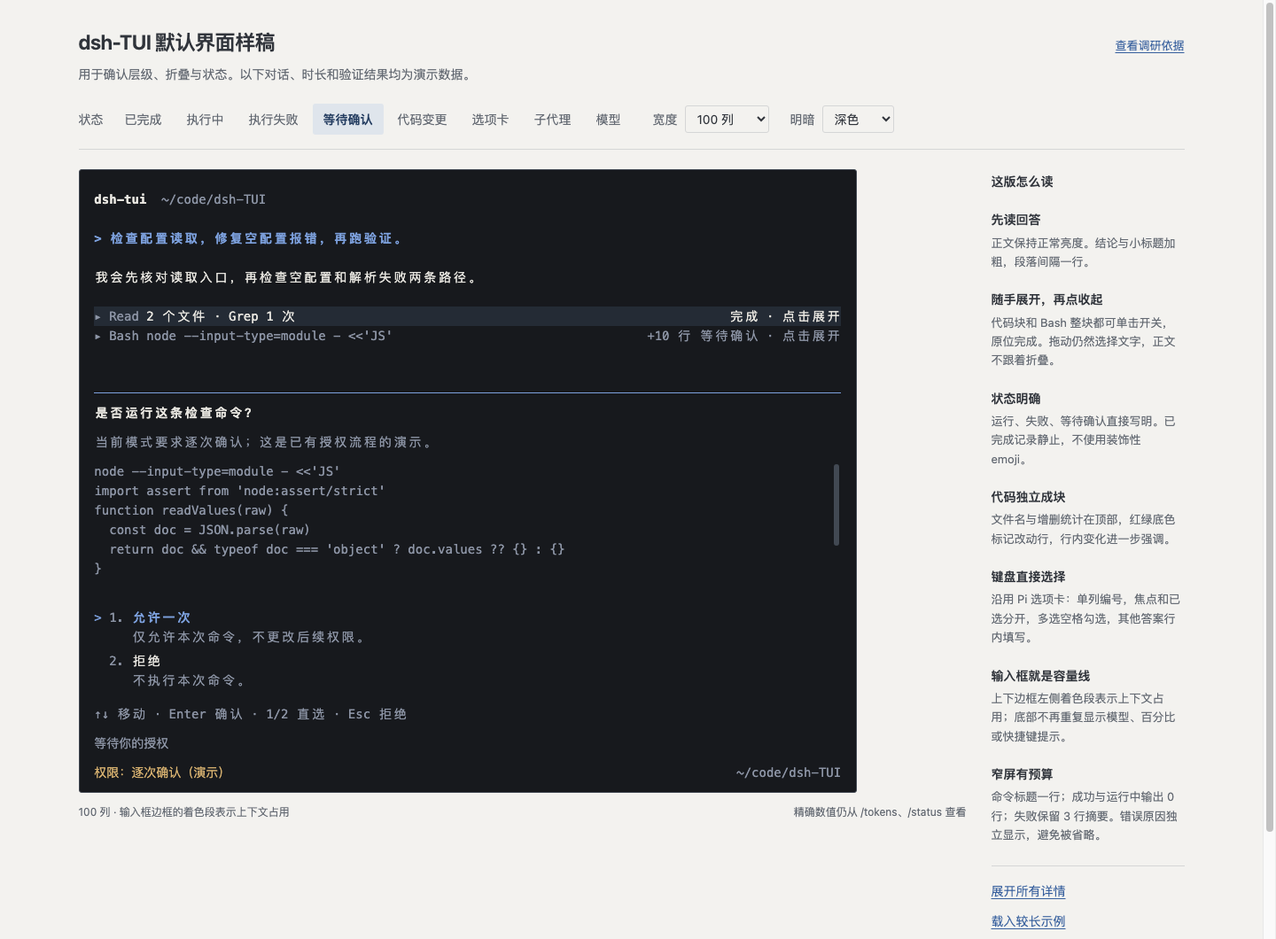
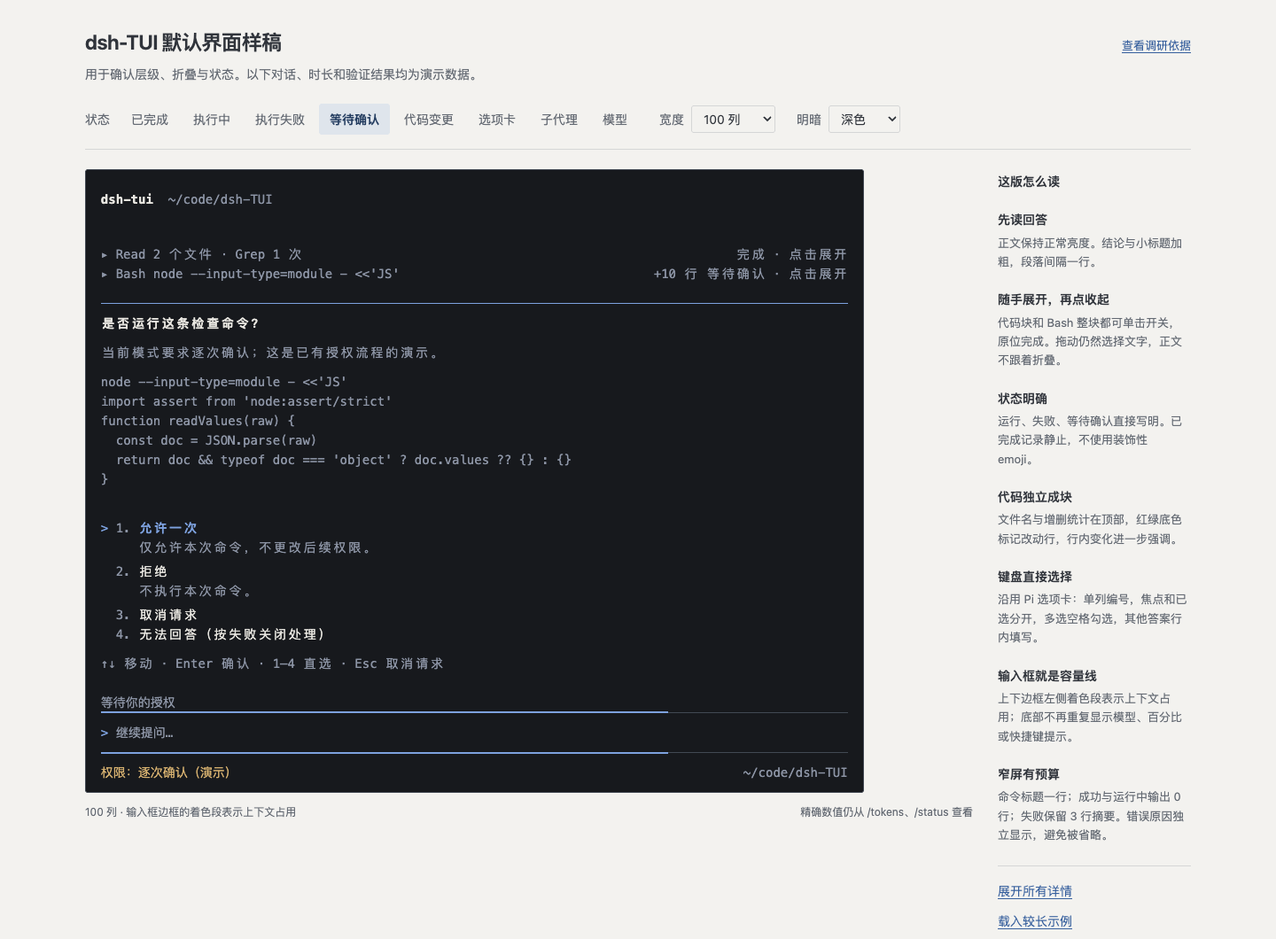
docs(spec): 审批卡进正文流 spec 与设计稿
Claude Code 2.1.88 同款落点：审批卡并入正文滚动序列，输入块保留；
新增命令区块（callId → ToolEntry.args）与删除 Overlay 原语的机制清单。

diff --git a/docs/design/2026-10-17-dsh-tui-ux-research/preview/choices.js b/docs/design/2026-10-17-dsh-tui-ux-research/preview/choices.js
@@ -32,7 +32,7 @@
         }
       })
     }
-    hide() { this.key=null;this.pending=false;this.host.hidden=true;this.host.innerHTML='' }
+    hide() { this.key=null;this.pending=false;if(this.mount){this.mount.remove();this.mount=null}this.host.hidden=true;this.host.innerHTML='' }
     showQuestions(mode,key) {
       if(this.key===key) {this.paint();return}
       this.key=key;this.kind='question';this.mode=mode;this.index=0;this.error='';this.result=null
@@ -45,7 +45,37 @@
       this.key=key;this.kind='approval';this.command=command;this.approvalFocus=0;this.error='';this.result=null;this.pending=true
       this.paint();this.focusPanel()
     }
-    focusPanel() { this.host.querySelector('.choice-panel')?.focus({preventScroll:true}) }
+    /** Approval card now lives in the transcript flow; the host renders it there. */
+    mountApproval(container) {
+      if(this.mount?.isConnected) return
+      const section=document.createElement('section')
+      section.className='choice-panel transcript-approval'
+      section.tabIndex=0
+      section.setAttribute('aria-label','命令授权选项卡')
+      section.addEventListener('click',event=>this.click(event))
+      container.appendChild(section)
+      this.mount=section
+    }
+    approvalBody() {
+      const rows=[
+        ['允许一次','仅允许本次命令，不更改后续权限。','allow'],
+        ['拒绝','不执行本次命令。','deny'],
+        ['取消请求','','cancel'],
+        ['无法回答（按失败关闭处理）','','unavailable'],
+      ]
+      return `<div class="choice-title">${this.cells('是否运行这条检查命令？')}</div>
+        <div class="choice-context muted">${this.cells('当前模式要求逐次确认；这是已有授权流程的演示。')}</div>
+        <pre class="approval-command" tabindex="0" aria-label="完整命令，可滚动查看">${this.cells(this.command)}</pre>
+        <div class="choice-options" role="listbox" aria-label="授权选项">
+          ${rows.map(([label,description,decision],index)=>this.optionRow(index,label,description,{focused:this.approvalFocus===index,decision})).join('')}
+        </div>
+        <div class="choice-footer">${this.cells('↑↓ 移动 · Enter 确认 · 1–4 直选 · Esc 取消请求')}</div>`
+    }
+    focusPanel() {
+      const root=this.mount?.isConnected?this.mount:this.host
+      const panel=root.classList?.contains('choice-panel')?root:root.querySelector('.choice-panel')
+      panel?.focus({preventScroll:true})
+    }
     question() { return this.questions[this.index] }
     current() { return this.states[this.index] }
     valid(item) { return item.selected.length>0 || Boolean(item.other.trim()) }
@@ -105,7 +135,7 @@
       if(!this.pending)return false
       const typing=event.target.matches('[data-other-input]')
       if(event.key==='Escape') {
-        event.preventDefault();this.finish(this.kind==='approval'?{kind:'permission',decision:'deny'}:{kind:'cancelled'});return true
+        event.preventDefault();this.finish(this.kind==='approval'?{kind:'permission',decision:'cancel'}:{kind:'cancelled'});return true
       }
       if(this.kind==='approval') {
         const command=event.target.closest('.approval-command')
@@ -113,10 +143,14 @@
           event.preventDefault();const up=event.key==='ArrowUp'||event.key==='PageUp';command.scrollTop+=(up?-1:1)*(event.key.startsWith('Page')?command.clientHeight:22);return true
         }
         if(['ArrowUp','ArrowDown','Tab'].includes(event.key)) {
-          event.preventDefault();this.approvalFocus=1-this.approvalFocus;this.paint();this.focusPanel()
-        } else if(event.key==='Enter'||event.key==='1'||event.key==='2') {
-          event.preventDefault();const index=event.key==='Enter'?this.approvalFocus:Number(event.key)-1
-          this.finish({kind:'permission',decision:index===0?'allow':'deny'})
+          event.preventDefault()
+          const step=event.key==='ArrowUp'?-1:1
+          this.approvalFocus=(this.approvalFocus+step+4)%4
+          this.paint();this.focusPanel()
+        } else if(event.key==='Enter'||/^[1-4]$/.test(event.key)) {
+          event.preventDefault()
+          const index=event.key==='Enter'?this.approvalFocus:Number(event.key)-1
+          this.finish({kind:'permission',decision:['allow','deny','cancel','unavailable'][index]})
         }
         return true
       }
@@ -164,7 +198,15 @@
       </div>`
     }
     receipt() {
-      if(this.result.kind==='permission')return `<div class="approval-result muted">${this.cells(this.result.decision==='allow'?'已演示“允许一次”。样稿不会执行命令。':'已演示“拒绝”。命令未执行。')}</div>`
+      if(this.result.kind==='permission') {
+        const text={
+          allow:'已演示“允许一次”。样稿不会执行命令。',
+          deny:'已演示“拒绝”。命令未执行。',
+          cancel:'已演示“取消请求”。命令未执行。',
+          unavailable:'已演示“无法回答”。按失败关闭处理。',
+        }[this.result.decision]??''
+        return `<div class="approval-result muted">${this.cells(text)}</div>`
+      }
       if(this.result.kind==='cancelled')return `<div class="muted">${this.cells('已取消，未提交答案。')}</div>`
       return `<div class="choice-receipt"><strong>${this.cells(`已回答 ${this.result.answers.length} 题`)}</strong>${this.result.answers.map(answer=>`<div class="muted">${this.cells(`· ${answer.header} → ${[...answer.selected,answer.custom].filter(Boolean).join('、')}`)}</div>`).join('')}</div>`
     }
@@ -172,21 +214,13 @@
       const previousInput=this.host.querySelector('[data-other-input]')
       const editing=previousInput&&document.activeElement===previousInput
       const caret=editing?previousInput.selectionStart:null
-      this.host.hidden=false
-      if(this.result){this.host.innerHTML=this.receipt();this.onChange(this);return}
-      if(this.kind==='approval') {
-        this.host.innerHTML=`<section class="choice-panel" tabindex="0" aria-label="命令授权选项卡">
-          <div class="choice-title">${this.cells('是否运行这条检查命令？')}</div>
-          <div class="choice-context muted">${this.cells('当前模式要求逐次确认；这是已有授权流程的演示。')}</div>
-          <pre class="approval-command" tabindex="0" aria-label="完整命令，可滚动查看">${this.cells(this.command)}</pre>
-          <div class="choice-options" role="listbox" aria-label="授权选项">
-            ${this.optionRow(0,'允许一次','仅允许本次命令，不更改后续权限。',{focused:this.approvalFocus===0,decision:'allow'})}
-            ${this.optionRow(1,'拒绝','不执行本次命令。',{focused:this.approvalFocus===1,decision:'deny'})}
-          </div>
-          <div class="choice-footer">${this.cells('↑↓ 移动 · Enter 确认 · 1/2 直选 · Esc 拒绝')}</div>
-        </section>`
+      if(this.kind==='approval'&&this.mount?.isConnected) {
+        this.mount.innerHTML=this.result?this.receipt():this.approvalBody()
         this.onChange(this);return
       }
+      if(this.kind==='approval') { this.onChange(this);return }
+      this.host.hidden=false
+      if(this.result){this.host.innerHTML=this.receipt();this.onChange(this);return}
       const submit=this.index===this.questions.length
       const tabs=this.questions.length>1?`<div class="choice-tabs" aria-label="题目导航">${this.questions.map((question,index)=>`<button data-question-tab="${index}" class="choice-tab" aria-current="${this.index===index}">${this.valid(this.states[index])?'[x]':'[ ]'} ${this.cells(question.header)}</button>`).join('')}<button data-question-tab="${this.questions.length}" class="choice-tab" aria-current="${submit}">${this.cells('提交')}</button></div>`:''
       let body,title,footer

diff --git a/docs/design/2026-10-17-dsh-tui-ux-research/preview/index.html b/docs/design/2026-10-17-dsh-tui-ux-research/preview/index.html
@@ -143,6 +143,9 @@
     .status-mode.waiting { color:var(--warning); }
     .choice-host { flex:none; max-height:484px; min-height:0; margin:0 2ch; border-top:1px solid var(--accent); padding:11px 0; overflow:hidden; }
     .choice-panel { display:flex; flex-direction:column; max-height:460px; outline:none; }
+    /* 审批卡住在正文流末尾：随 transcript 滚动，输入块保持原位。 */
+    .transcript-approval { max-height:none; margin-top:var(--line); border-top:1px solid var(--accent); padding-top:11px; }
+    .transcript-approval .approval-command { max-height:154px; overflow:auto; margin:0 0 11px; color:var(--muted); scrollbar-width:thin; scrollbar-color:var(--rule) var(--bg); }
     .choice-title { font-weight:700; margin-bottom:11px; }
     .choice-context { margin-bottom:11px; }
     .choice-body { overflow:auto; min-height:0; scrollbar-width:thin; scrollbar-color:var(--rule) var(--bg); }
@@ -386,7 +389,8 @@
     choiceEpoch:0,
   }
   const choicePreview = new window.TuiChoicePreview({host:$('#choice-host'),cells,onChange:picker=>{
-    $('.composer').hidden=picker.pending
+    // 审批卡住在正文流里，输入框保持可见；只有问卷卡仍占用输入位。
+    $('.composer').hidden=picker.kind==='question'&&picker.pending
     if(picker.pending) $('#activity').textContent=picker.kind==='approval'?'等待你的授权':'等待你的选择'
     else if(state.scene==='questions'||state.scene==='approval') $('#activity').textContent=''
     if(picker.result?.kind==='permission') {state.decision=picker.result.decision;$('#permission').classList.remove('waiting')}
@@ -598,6 +602,7 @@
       </section>`}
       ${answer()}
     </section>`)
+    if(state.scene==='approval') choicePreview.mountApproval(transcript)
     $('#activity').innerHTML = running
       ? `<span class="activity-glyph" aria-hidden="true">-</span>${cells('正在运行检查 · Esc 可停止')}`
       : waiting && !state.decision ? cells('等待你的确认') : ''
@@ -615,8 +620,8 @@
     subagentPreview.sync(state.scene==='subagents',state.long)
     updateExpandLabel()
     measureDiff()
-    if (options.top) transcript.scrollTop = 0
-    else if (options.bottom || (stick && !options.hold)) transcript.scrollTop = transcript.scrollHeight
+    if (options.top && state.scene!=='approval') transcript.scrollTop = 0
+    else if (state.scene==='approval' || options.bottom || (stick && !options.hold)) transcript.scrollTop = transcript.scrollHeight
     else {
       const nextAnchor = anchorKey && Array.from(transcript.querySelectorAll('[data-key]')).find(el => el.dataset.key === anchorKey)
       transcript.scrollTop = nextAnchor ? previousTop + nextAnchor.getBoundingClientRect().top - viewportTop - anchorOffset : previousTop

diff --git a/docs/specs/2026-11-01-nano-approval-card-in-transcript/README.md b/docs/specs/2026-11-01-nano-approval-card-in-transcript/README.md
@@ -1,0 +1,196 @@
+# [2026-11-01-nano-approval-card-in-transcript] 审批卡进正文流（对齐 Claude Code）
+
+- 组标识：`2026-11-01-nano-approval-card-in-transcript`
+- 角色：单份 spec，总纲与执行规格合一
+- 状态：草案，待过闸
+- Issue：spec 合并后开（段一第 6 步）
+- 结构：不拆——1 份 spec + 1 张执行 issue
+- 机制范围：**3 项新增机制**——① 审批卡并入正文滚动序列；② 命令区块（`callId` → `ToolEntry.args`）；③ 删除 `Overlay` 原语。其余复用现有 `DecisionManager`、transcript 渲染与主题 token
+- 上游：
+  - Claude Code 2.1.88 源码（本机归档 `/Users/sunchongsheng/Downloads/归档/06-软件与安装包/ClaudeCode/src`）：`screens/REPL.tsx:4519,4565`、`components/FullscreenLayout.tsx:361`、`components/permissions/PermissionDialog.tsx`、`components/permissions/BashPermissionRequest/BashPermissionRequest.tsx:84-88`、`components/permissions/BashPermissionRequest/bashToolUseOptions.tsx`
+  - 设计稿 `docs/design/2026-10-17-dsh-tui-ux-research/preview/`（`choices.js:177-188`、`index.html` `.choice-*`）
+  - [visual-v1 §2/§4.2](../../specs/2026-10-22-nano-visual-v1/README.md)、[design-contract §1/§2](../../release/design-contract.md)
+- 替代关系：本 spec **修订** `design-contract` §1 覆盖层规则与 `visual-v1`「主界面槽位」条（`README.md:39`）中「决策卡打开时输入块隐藏」的**审批卡**部分；问题卡、计划审阅卡不变。不回写旧 spec 正文，按修订记录处理
+- ADR：新增 [ADR-20261101-approval-card-in-transcript](../../decisions/2026-11-01-approval-card-in-transcript.md)
+- 下游：spec 合并后开执行 issue；问题卡选项卡（`← →`、反色）另立 spec
+- 合入前提：实施须单测 + 渲染断言全绿，并按 §6 留 100/60 列真实终端证据
+
+## 1. 目标
+
+让审批卡与 Claude Code 2.1.88 的形态一致，而不是继续做一个会错位的浮层：
+
+1. **落点**：审批卡作为正文滚动内容的一部分，接在最后一条消息之后；输入块固定在底部、保持可见。
+2. **信息**：卡片显示问句标题、原因、**完整命令**（`muted`，超出可用高度时截断并提示）、4 个选项与键位提示。
+3. **操作**：`↑`/`↓` 移焦点、`Enter` 确认、`1`–`4` 直选、`Esc` 取消；`PageUp`/`PageDown` 与滚轮滚正文。
+4. **清理**：删除 `Overlay` 原语，消除「重绘冲掉定位」的整类缺陷。
+
+### 非目标
+
+- **问题卡 / 选项卡**：落点与视觉均不变（仍占输入位）；`← →` 箭头、当前项反色另立 spec。
+- **持久权限规则**（「始终允许」）：官方 seam 无规则存储，本次不做。
+- **fail-closed 语义**：4 个结果（`allowed-once` / `rejected` / `cancelled` / `unavailable`）与现有键位分流不变。
+- **计划审阅卡**：与问卷共用一张卡，本次不重做。
+- **倒计时**：设计稿无此形态，不在范围。
+
+## 2. 现状与证据
+
+调查基线：`origin/main` @ `1d29c4c`；官方 `@deepseek-ai/dsh` 0.2.1-rc.2。
+
+| 事实 | 证据 |
+|---|---|
+| 审批卡是全屏浮层，面板宽 `min(72, max(30, width-8))`，居中、`clear` | `src/app/App.tsx:375-421` |
+| 浮层的绝对定位是创建时注入的合成 props（`position:absolute; left/top:0; width/height:100%`） | `src/render/host.ts:353-377` |
+| `commitUpdate` 每次重绘用元素原始 props 覆盖，合成定位丢失 | `src/render/host.ts:459-473` |
+| 重绘后浮层退化成普通列尾子节点：118×37 下标题行 13 → 22，节点 layout `top` 0 → 19、高度 37 → 18 | 2026-11-01 本机复现（临时用例已撤销） |
+| 审批挂起时输入块仍渲染，仅占位「等待你处理上面的确认…」 | `src/app/App.tsx:588-592`、`src/app/nano-app.ts:287-289` |
+| 审批键位全量截获（`↑↓`/`Enter`/`1-4`/`Esc`），`PageUp`/`PageDown` 未放行 | `src/app/nano-app.ts:462-470` |
+| 工具入参以 JSON 字符串存在 transcript：`ToolEntry.args`；`parseArgs` 已可解析 | `src/transcript/model.ts:190-200`、`:478-486` |
+| 官方 approval 事件只带 `toolName` / `callId` / `reason`，不带入参 | `node_modules/@deepseek-ai/dsh-user-approval/lib/index.js:123-136` |
+| 官方 UI 用 `callId` 取 detail 槽渲染工具详情 | `node_modules/@deepseek-ai/dsh-client-ui-approval/lib/client.js:40` |
+| Claude Code：审批卡在 `ScrollBox` 内、消息之后；输入框独立固定 | `FullscreenLayout.tsx:361`、`REPL.tsx:4565` |
+| Claude Code：命令来自 `toolUseConfirm.input`，用 `BashTool.renderToolUseMessage` 以 dim 渲染 | `BashPermissionRequest.tsx:84-88`、`:414-420` |
+
+## 3. 交互规格
+
+### 3.1 槽位与形态
+
+- 审批卡**不是**独立槽位：它的行块追加在 transcript 的可见行序列之后，参与同一套滚动与分页。
+- 卡片宽度 = 终端宽度减去左右各 2ch（与 transcript 同宽）；不加外框，顶部一条 `accent` 横线（visual-v1 §4.2）。
+- 输入块照常渲染在底部；状态行、活动行、dock 位置不变。
+
+### 3.2 行结构
+
+```
+──────────────  ← accent 横线，内容宽度
+是否运行这条检查命令？          ← 白色加粗问句
+当前模式要求逐次确认：…          ← 原因（muted，自动换行）
+npm test                       ← 完整命令（muted，最多 N 行，超出显示「…还有 k 行」）
+> 1. 允许一次                   ← 焦点指针 + 编号（muted）+ 标签（accent/bold）
+     仅允许本次命令，不更改后续权限。   ← 描述，5ch 缩进，muted
+  2. 拒绝
+     不执行本次命令。
+  3. 取消请求
+  4. 无法回答（按失败关闭处理）
+↑↓ 移动 · Enter 确认 · 1–4 直选 · Esc 取消请求   ← faint
+```
+
+- 标题：Bash 用固定问句「是否运行这条检查命令？」；其他工具用「是否允许 `<toolName>` 执行？」。
+- 原因：`prompt.reason`，空则不占行。
+- 命令：见 §3.3。
+- 选项：4 项，见 §3.4。
+- 键位提示：1 行，`faint`。
+
+### 3.3 命令区块
+
+- 来源优先级：
+  1. `prompt.callId` → transcript 中同 `callId` 的 `ToolEntry` → `parseArgs(args).command`（字符串且非空）；
+  2. 取不到 `command` 时，把 `args` 的顶层键值渲染为 `key: value` 行（单行截断）；
+  3. 再取不到时，省略命令区（不拿 `reason` 冒充命令）。
+- 渲染：`muted`，按内容宽度换行；最多 N 行（自定细节），超出追加「…还有 k 行」。
+- 命令区块与原因之间空 1 行；与选项之间空 1 行。
+
+### 3.4 选项
+
+- 保留 4 项，顺序与 `APPROVAL_OPTIONS` 一致。
+- 前两项（允许一次 / 拒绝）按设计稿带描述；后两项（取消请求 / 无法回答）保留为协议兜底，不加描述。
+- 焦点行：`>` 指针 + 标签 `accent` + `bold`；非焦点行：空格 + 标签 `normal`。
+- 编号 `1.` … `4.` 固定 2 列宽，`muted`；描述行缩进 5ch（`NESTED + INLINE`）。
+- 数字直选 1–4 与现有 `APPROVAL_OPTIONS` 索引保持一致。
+
+### 3.5 焦点与滚动
+
+- 卡片的焦点行必须在视口内：`↑`/`↓` 移动焦点时，若焦点行滚出可见区，自动调整 `scrollOffset`（沿用问题卡的「焦点跟随」语义）。
+- `PageUp`/`PageDown`：审批挂起时改为滚动正文（±5 行），不再被审批键位吞掉。
+- 滚轮：沿用现有 `handleMouse` 的 wheel 分支（本就不受决策拦截），确认仍可滚正文。
+- 默认 `stickBottom = true`：卡片在底部可见；用户手动上滚后保持手动位置（沿用现有 scroll 语义）。
+
+### 3.6 键位总表（审批挂起）
+
+| 键 | 行为 |
+|---|---|
+| `↑` / `↓` | 移动焦点（焦点行自动滚入视野） |
+| `Enter` | 选中焦点项 |
+| `1`–`4` | 直选对应结果 |
+| `Esc` | 取消请求（`cancelled`，不等于允许） |
+| `PageUp` / `PageDown` | 滚动正文 ±5 行 |
+| 滚轮 | 滚动正文 |
+| 鼠标左键点击选项 | 选中对应结果（`decision:approval:<index>`） |
+
+### 3.7 输入块与活动行
+
+- 输入块保持可见、不可编辑（现状）：占位「等待你处理上面的确认…」。
+- 活动行保持「等待你的授权」文案（visual-v1 §2），位置不变。
+- 状态行右侧仍显「Enter 插话 · Ctrl+C 停止」；`Ctrl+C` 仍走停止流程。
+
+### 3.8 鼠标
+
+- 卡片行沿用 `Row.pressId` → `onPress` 通路；渲染层无需新增机制。
+- 点击选项与键盘直选的结算路径一致（`decisions.resolveApproval`）。
+
+## 4. 视觉规格
+
+- 顶部横线：`accent`，宽度 = 内容宽度（terminal width − 2 × `EDGE`）。
+- 标题：`bold`、正文色（visual-v1 §4.2「首行白色加粗问句」）。**不复用** 现有 `warning` 色。
+- 原因 / 命令 / 描述：`muted`。
+- 选项标签：焦点 `accent` + `bold`；其余正文色。
+- 键位提示：`faint`。
+- 宽度 60 / 100 列使用同一行结构；描述按可用宽度换行，不横向溢出。
+- 主题：只用现有 token（`accent` / `fg` / `muted` / `faint`），不新增颜色。
+
+## 5. 实现落点
+
+| 文件 | 改动 |
+|---|---|
+| `src/app/approval-card.ts`（新） | 把 `ApprovalPrompt` + 命令来源构造成 `Row[]`；导出高度与焦点行号，供滚动追随 |
+| `src/app/App.tsx` | `TranscriptView` 接受附加 rows 并计入滚动窗口；删除 `ApprovalOverlay`；`transcriptBodyHeight` 不再为审批卡扣除输入块 |
+| `src/app/nano-app.ts` | snapshot 提供审批卡 rows / 命令查找；审批挂起时放行 `PageUp`/`PageDown` 给 `scrollBy`；删除 overlay 相关 |
+| `src/decisions/manager.ts` | `APPROVAL_OPTIONS` 增加 `description?`（前两项）；不改正结果集合 |
+| `src/render/host.ts` | 删除 `type === 'overlay'` 分支 |
+| `src/render/components.ts` | 删除 `Overlay` 导出与 `'overlay'` 元素类型 |
+| `tests/unit/approval-card.test.ts`（新） | 见 §6 |
+| `docs/decisions/2026-11-01-approval-card-in-transcript.md`（新） | 本 spec 的 ADR |
+
+## 6. 验收标准
+
+### 单测
+
+1. 审批挂起 + 一次重绘后，卡片仍位于 transcript 行序列中、输入块仍在底部（不再出现「掉到输入块下方」）。
+2. `callId` 命中 `ToolEntry` 时渲染命令；未命中时按 args 键值降级；再缺则省略命令区。
+3. 4 个选项顺序与 `APPROVAL_OPTIONS` 一致，`1`–`4` 直选与 `Enter` 结果不变。
+4. `PageUp`/`PageDown` 在审批挂起时滚动正文；`↑`/`↓` 焦点行始终可见。
+5. 仓库内不再有 `Overlay` / `'overlay'` 引用。
+
+### 渲染与证据
+
+- 真实终端 100 / 60 列 × 深 / 浅主题：审批卡在正文末尾、输入块可见、命令区可见。
+- 现有全量测试、`npm run typecheck`、`npm run lint` 全绿。
+
+## 7. 机制清单
+
+| # | 机制 | 解决什么 | 没有会怎样 |
+|---|---|---|---|
+| M1 | 审批卡并入正文滚动序列 | 卡片随正文滚动、输入块保留；与 Claude Code 一致；消灭浮层定位缺陷 | 退回底部槽位或继续浮层，与上游不同 |
+| M2 | 命令区块（`callId` → `ToolEntry.args`） | 用户看到实际要执行的命令，而不是只有原因 | 设计稿「完整命令」条款落空 |
+| M3 | 删除 `Overlay` 原语 | 去掉无调用方、重绘即坏的死组件 | 复用它的人会再踩同一个坑 |
+
+## 8. 自定细节
+
+- 命令最多显示 8 行；超出显示「…还有 k 行」。
+- 描述缩进 5ch（`NESTED + INLINE`）。
+- 指针用 `>`（设计稿），不使用 `▸`。
+- 标题用正文色加粗（visual-v1），不沿用 `warning`。
+- 命令区缺失时不渲染，也不拿 `reason` 冒充。
+- 非 Bash 工具的命令区渲染 `args` 顶层键值（值为字符串时原样、其他 JSON 序列化后截断）。
+- 活动行保留「等待你的授权」，与卡片不重复。
+- 卡片行 block 追加在 transcript 末尾，不写入 `TranscriptModel.entries`（不参与历史持久化）。
+
+## 9. 调研取舍（Claude Code 2.1.88）
+
+- **采纳**：审批卡进正文滚动区、输入框保留（`REPL.tsx:4565` + `FullscreenLayout.tsx:361`）；完整命令展示（`BashPermissionRequest.tsx:84-88`）。
+- **不采纳**：「Yes, and don't ask again」（依赖权限规则存储，nano 没有）；`Tab to amend`（无编辑命令流程）。
+- **保留差异**：nano 的 4 个协议结果（含取消 / 无法回答），Claude Code 为 Yes / always-allow / No。
+- **理由**：落点决定体验与缺陷面；结果集合由官方 fail-closed seam 决定，不能为了照抄上游而删出口。
+
+## 10. 审核修订记录
+
+（待过闸后追加）

diff --git a/docs/decisions/2026-11-01-approval-card-in-transcript.md b/docs/decisions/2026-11-01-approval-card-in-transcript.md
@@ -1,0 +1,30 @@
+# ADR-20261101-approval-card-in-transcript：审批卡进正文滚动区，输入块保留
+
+- 状态：待生效（随 spec `2026-11-01-nano-approval-card-in-transcript` 合并）
+- 日期：2026-11-01
+- 来源：用户 2026-11-01 拍板「那就走B」与「按 Claude Code（推荐）」；Claude Code 2.1.88 源码 `screens/REPL.tsx:4519,4565`、`components/FullscreenLayout.tsx:361`（`overlay` 注释：*Content rendered inside the ScrollBox after messages*）
+- 相关：[spec](../../specs/2026-11-01-nano-approval-card-in-transcript/README.md)、[visual-v1](../../specs/2026-10-22-nano-visual-v1/README.md)、[design-contract §1](../../release/design-contract.md)
+
+## 决定
+
+1. 审批卡**不再使用全屏浮层**：它的行块追加在 transcript 的滚动内容末尾，随正文一起滚动；输入块保持在底部可见（审批挂起时不可编辑）。
+2. 本决定**取代** `design-contract` §1 覆盖层规则中的「决策卡（审批/问卷/计划审阅）替换输入块」与 `visual-v1`「主界面槽位」条（`README.md:39`）的「决策卡打开时输入块隐藏」，**仅对审批卡**生效；问题卡与计划审阅卡不变。
+3. 删除 `Overlay` 原语（`src/render/components.ts` 的导出与 `src/render/host.ts` 的 `'overlay'` 分支）：它唯一的调用方是审批卡，而它在重绘时会丢失合成定位。
+4. 审批卡展示完整命令：`callId` → transcript `ToolEntry.args` 的 `command`；取不到时按 args 键值降级，再取不到则省略命令区。
+
+## 为什么
+
+- 现浮层在首帧正确，但任何一次 React 重绘都会让 `commitUpdate` 用元素原始 props 覆盖创建时注入的 `position:absolute; left/top:0; width/height:100%`，卡片退化成列尾子节点，掉到输入块下方、把输入区顶上去。该缺陷从初始实现起就存在（`git log -L 459,474:src/render/host.ts` 只有 `a44fa65`）。
+- Claude Code 的审批卡本来就不是浮层：全屏模式下它在 `ScrollBox` 内、消息之后，用户可上滚查看上下文，输入框独立保留。nano 跟随这一形态，同时消灭「绝对定位 + 重绘」的整类问题。
+- 保留输入块：审批是单一决策，输入区仍在原位，用户不会丢失输入位置；这与问题卡（需要整块空间逐题作答）的取舍不同，属于有意的差异。
+
+## 代价与边界
+
+- **两张决策卡落点不一致**：审批卡在正文流，问题卡仍在输入位。接受该差异；若后续实测造成认知负担，另立 spec 统一迁移问题卡。
+- 审批挂起时 `PageUp`/`PageDown` 改为滚正文，焦点行需自动滚入视野；这会把滚动责任从「卡片内部滚动」挪到「transcript 滚动」。
+- 删除 `Overlay` 后，未来若需要真正的模态浮层，必须重新设计并修复 `commitUpdate`，不能复活旧原语。
+
+## 重开条件
+
+- 问题卡与审批卡落点不一致被用户判定为负担，且问题卡迁移有独立 spec 时，重新评估两者是否统一。
+- 上游 Claude Code 改变审批卡落点，或官方 seam 开始携带工具入参（届时命令区块的 `callId` 查找可简化）。
